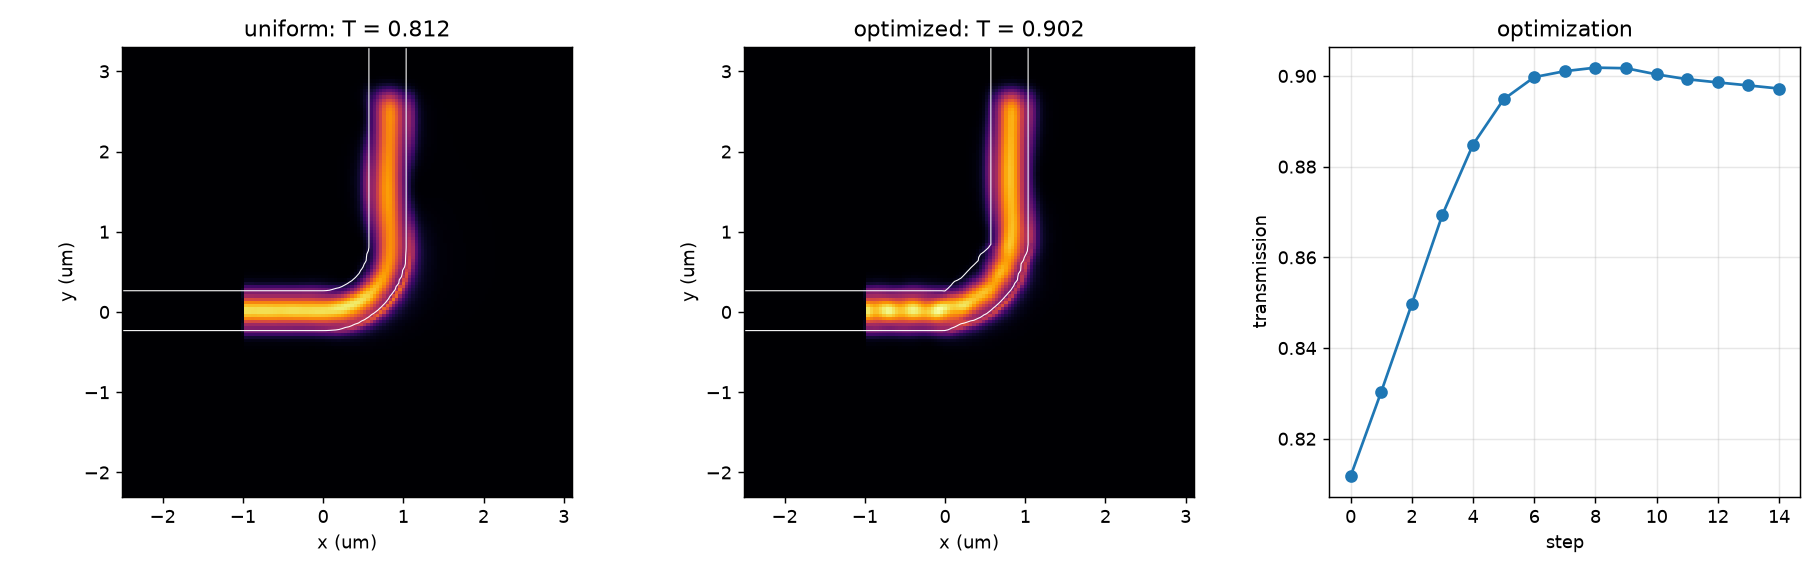
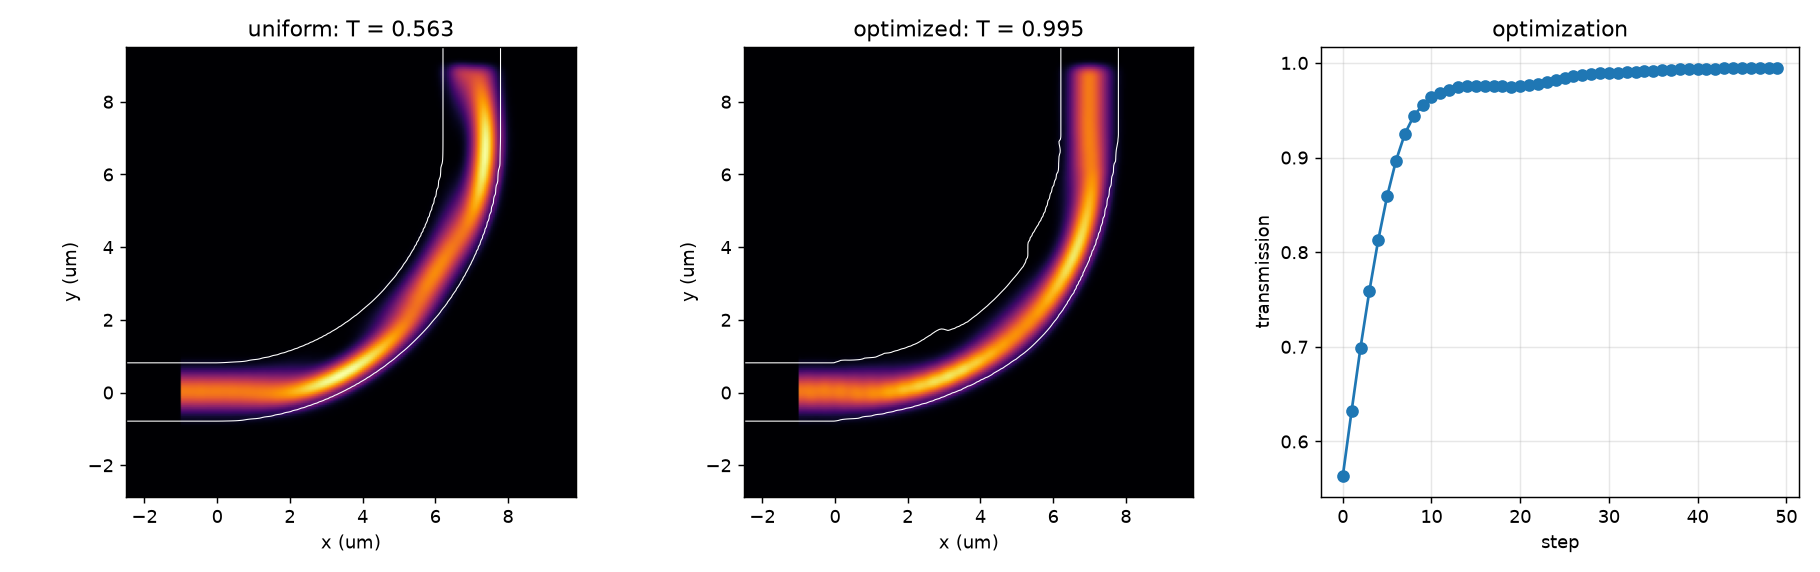
Inverse-design example: air-clad SiN bend on silica, 70 stations
The example now optimizes a 0.75 um thick, 1.6 um wide silicon nitride
guide on silica under air, bent 90 degrees at 7 um radius, at 1.55 um. The
uniform bend transmits 0.563 of TE0 as TE0 and 0.405 as TE1, so its loss
is mode conversion, which the width profile can undo. Both edges move at
70 stations (one vertex per station, half-widths 0.25 to 1.25 um); Adam at
learning rate 0.03 for 50 steps raises the transmission to 0.9950 (0.9934
on the 40 nm check grid; grids are 60 and 40 nm). The silica is a WAFER
level through the bottom of a 4.8 um tall box. Each step prints a one-line
summary of the profile. The guide, figure and changelog follow the run.

diff --git a/examples/guide/inverse_design.py b/examples/guide/inverse_design.py
@@ -1,11 +1,12 @@
 """Inverse design: the widths of a bend too tight for a uniform-width guide.
 
-A 90 degree silicon bend of 0.8 um radius transmits only 81 % of TE0 at the uniform 0.5 um width. The
-width on each side of its centerline, at six stations along the bend, is optimized for TE0 transmission at
-1.55 um by gradient ascent through the simulation; both ends stay 0.5 um wide and centered, so the ports
-and their straight leads never change. The optimized design is then checked on a finer grid.
+An air-clad silicon nitride guide on silica, 1.6 um wide and 0.75 um thick, bent 90 degrees at 7 um radius,
+transmits only 56 % of its TE0 mode as TE0 at the uniform width: most of the rest leaves as TE1. The width on
+each side of its centerline, at 70 stations along the bend, is optimized for TE0 transmission at 1.55 um by
+gradient ascent through the simulation; both ends stay 1.6 um wide and centered, so the ports and their
+straight leads never change. The optimized design is then checked on a finer grid.
 Run it on a GPU:  python examples/guide/inverse_design.py
-Options:  --iterations 15 --resolution 0.04 --check 0.025 --figure inverse_design.png
+Options:  --iterations 50 --resolution 0.06 --check 0.04 --figure inverse_design.png
 """
 
 import argparse
@@ -25,12 +26,12 @@ gf.gpdk.PDK.activate()
 
 # --8<-- [start:geometry]
 WAVELENGTH = 1.55  # um
-CORE_INDEX, CLAD_INDEX = 3.48, 1.444  # silicon in silica
-WIDTH, THICKNESS = 0.5, 0.22  # um: the guide at both ports
-RADIUS = 0.8  # um, of the bend's centerline: too tight for a 0.5 um strip
-N_STATIONS = 6  # evenly spaced along the bend between its two ends
-H_MIN, H_MAX = 0.1, 0.5  # um: bounds of every half-width (H_MAX < RADIUS keeps the inner edge off the center)
-ANGLES = jnp.linspace(0.0, jnp.pi / 2, 61)  # the bend's vertices on each edge: a fixed number, a fixed topology
+CORE_INDEX, BOX_INDEX, CLAD_INDEX = 1.996, 1.444, 1.0  # silicon nitride on silica, under air
+WIDTH, THICKNESS = 1.6, 0.75  # um: the guide at both ports
+RADIUS = 7.0  # um, of the bend's centerline
+N_STATIONS = 70  # evenly spaced along the bend between its two ends
+H_MIN, H_MAX = 0.25, 1.25  # um: bounds of every half-width (H_MAX < RADIUS keeps the inner edge off the center)
+ANGLES = jnp.linspace(0.0, jnp.pi / 2, N_STATIONS + 2)  # one vertex per station and end on each edge: a fixed topology
 
 
 def tight_bend(half_widths):
@@ -38,7 +39,7 @@ def tight_bend(half_widths):
 
     Row 0 is the side toward the bend's center, row 1 the side away from it. At both ends the guide is
     WIDTH wide and centered; in between, each edge is linear from station to station. Every profile has
-    the same 122 vertices, so the device built for one takes the vertices of any other (``StackDevice.pack``).
+    the same 144 vertices, so the device built for one takes the vertices of any other (``StackDevice.pack``).
     """
     t = ANGLES / ANGLES[-1]  # along the bend, 0 to 1
     stations = jnp.linspace(0.0, 1.0, N_STATIONS + 2)
@@ -54,29 +55,37 @@ def tight_bend(half_widths):
     return bend
 
 
-UNIFORM = jnp.full((2, N_STATIONS), WIDTH / 2)  # the 0.5 um guide, centered everywhere
+UNIFORM = jnp.full((2, N_STATIONS), WIDTH / 2)  # the 1.6 um guide, centered everywhere
 # --8<-- [end:geometry]
 
 
 # --8<-- [start:simulation]
 EXTENSION = 2.5  # um: both ports run straight out to the box faces
-MARGIN = 2.05  # um past the bend's two free sides; the box is 5.6 x 5.6 x 3.4 um, whole cells at 40 and 25 nm
-BOX_HEIGHT, PML = 3.4, 1.0  # um
-RESOLUTION, CHECK_RESOLUTION = 0.04, 0.025  # um: the grid it is optimized on, and the finer one it is checked on
-DURATION = 400e-15  # s
+MARGIN = 2.06  # um past the bend's two free sides; the box is 12.36 x 12.36 x 4.8 um, whole cells at 60 and 40 nm
+BOX_HEIGHT, PML = 4.8, 1.0  # um
+RESOLUTION, CHECK_RESOLUTION = 0.06, 0.04  # um: the grid it is optimized on, and the finer one it is checked on
+DURATION = 500e-15  # s
+PADDING = (0.5, 0.5)  # wavelengths past the port's width and the core's height: the mode reaches into the silica
 KEY = jax.random.PRNGKey(0)
 
 layer_stack = LayerStack(
-    layers={"core": LayerLevel(layer=gf.gpdk.LAYER.WG, zmin=0.0, thickness=THICKNESS, material="core", mesh_order=1)}
+    layers={
+        "box": LayerLevel(layer="WAFER", zmin=-3.0, thickness=3.0, material="silica", mesh_order=9),
+        "core": LayerLevel(layer=gf.gpdk.LAYER.WG, zmin=0.0, thickness=THICKNESS, material="core", mesh_order=1),
+    }
 )
-materials = {"core": fdtdx.Material(permittivity=CORE_INDEX**2), "clad": fdtdx.Material(permittivity=CLAD_INDEX**2)}
+materials = {
+    "core": fdtdx.Material(permittivity=CORE_INDEX**2),
+    "silica": fdtdx.Material(permittivity=BOX_INDEX**2),
+    "air": fdtdx.Material(permittivity=CLAD_INDEX**2),
+}
 
 
 def place(resolution):
     """The uniform bend, placed on a grid of this cell (um) with its source and monitors."""
-    z_margin = (BOX_HEIGHT - THICKNESS) / 2
+    z_margin = (BOX_HEIGHT - THICKNESS) / 2  # the silica runs through the bottom face, the air through the top
     stack = bf.StackDevice.from_layer_stack(
-        tight_bend(UNIFORM), layer_stack, materials, background="clad", zrange_layers=["core"],
+        tight_bend(UNIFORM), layer_stack, materials, background="air", zrange_layers=["core"],
         extend_ports=(("o1", EXTENSION), ("o2", EXTENSION)),
         boundary_offset=(MARGIN, 0, 0, -MARGIN, z_margin, -z_margin), name="stack",
     )
@@ -94,14 +103,14 @@ def place(resolution):
     for obj, placing in (
         # source and monitors in the straight leads, clear of the bend whose edges move
         stack.create_mode_plane_source_at(
-            "o1", (0.5, 0.3), wave_character=wave, temporal_profile=pulse, port_offset=-1.0, name="source", **te0,
+            "o1", PADDING, wave_character=wave, temporal_profile=pulse, port_offset=-1.0, name="source", **te0,
         ),
         stack.create_mode_overlap_detector_at(
-            "o1", (0.5, 0.3), direction="in", wave_characters=(wave,), scaling_mode="pulse", port_offset=-0.5,
+            "o1", PADDING, direction="in", wave_characters=(wave,), scaling_mode="pulse", port_offset=-0.5,
             name="in", **te0,
         ),
         stack.create_mode_overlap_detector_at(
-            "o2", (0.5, 0.3), wave_characters=(wave,), scaling_mode="pulse", port_offset=-0.5, name="out", **te0,
+            "o2", PADDING, wave_characters=(wave,), scaling_mode="pulse", port_offset=-0.5, name="out", **te0,
         ),
     ):
         objects.append(obj)
@@ -148,7 +157,14 @@ def parameters_of(half_widths):
 
 
 # --8<-- [start:optimize]
-def optimize(placed, iterations, learning_rate=0.2):
+def describe(half_widths):
+    """The range of a profile's width, and of its middle's shift toward the bend's center (um)."""
+    inner, outer = np.asarray(half_widths)
+    width, shift = inner + outer, (inner - outer) / 2
+    return f"width {width.min():.2f} to {width.max():.2f}, shift {shift.min():+.2f} to {shift.max():+.2f} um"
+
+
+def optimize(placed, iterations, learning_rate=0.03):
     """Adam on the transmission; returns the best half-widths seen and the transmission of every step."""
     value_and_grad = jax.value_and_grad(lambda z: simulate(half_widths_of(z), placed)[0])  # eager: no jax.jit
     optimizer = optax.adam(learning_rate)
@@ -159,8 +175,7 @@ def optimize(placed, iterations, learning_rate=0.2):
         transmission, gradient = value_and_grad(z)
         transmission = float(transmission)
         history.append(transmission)
-        inner, outer = np.round(np.asarray(half_widths_of(z)), 3)
-        print(f"step {step:2d}  T = {transmission:.4f}  inner {inner}  outer {outer}")
+        print(f"step {step:2d}  T = {transmission:.4f}  {describe(half_widths_of(z))}")
         if transmission > best[0]:
             best = (transmission, half_widths_of(z))
         updates, state = optimizer.update(-gradient, state)  # optax minimizes: ascend on T
@@ -206,7 +221,7 @@ def plot(images, history, path):
 
 if __name__ == "__main__":
     parser = argparse.ArgumentParser(description=__doc__.splitlines()[0])
-    parser.add_argument("--iterations", type=int, default=15, help="optimization steps")
+    parser.add_argument("--iterations", type=int, default=50, help="optimization steps")
     parser.add_argument("--resolution", type=float, default=RESOLUTION, help="grid cell (um) to optimize on")
     parser.add_argument("--check", type=float, default=CHECK_RESOLUTION, help="finer grid cell (um); 0 skips it")
     parser.add_argument("--figure", default="inverse_design.png", help="where to save the figure; '' skips it")
@@ -216,8 +231,7 @@ if __name__ == "__main__":
     # --8<-- [start:run]
     placed = place(args.resolution)
     half_widths, history = optimize(placed, args.iterations)
-    inner, outer = np.round(np.asarray(half_widths), 3)
-    print(f"optimized half-widths (um): inner {inner}, outer {outer}")
+    print(f"optimized: {describe(half_widths)}")
     images = {name: field_image(h, placed, args.resolution) for name, h in (("uniform", UNIFORM), ("optimized", half_widths))}
     t_uniform, t_optimized = images["uniform"][0], images["optimized"][0]
     print(f"transmission at {args.resolution * 1e3:.0f} nm: uniform {t_uniform:.4f}, optimized {t_optimized:.4f}")

diff --git a/docs/guide/inverse-design.md b/docs/guide/inverse-design.md
@@ -1,10 +1,11 @@
 # Inverse design
 
-A 90° silicon bend of 0.8 µm radius transmits only 81 % of TE0 at the uniform 0.5 µm width.
+An air-clad silicon nitride guide on silica, 1.6 µm wide and 0.75 µm thick, bent 90° at 7 µm radius, transmits only
+56 % of TE0 at 1.55 µm as TE0 at its uniform width: most of the rest leaves the bend as TE1.
 [`examples/guide/inverse_design.py`](https://github.com/Sephiram591/bifrost/blob/main/examples/guide/inverse_design.py)
-optimizes the width on each side of its centerline for transmission, by gradient ascent through the simulation, and
-raises it to 90 %: the bend's loss halves, from 0.91 dB to 0.45 dB, and a finer grid confirms it. Run it on a GPU; on
-an NVIDIA L40S it took 977 s.
+optimizes the width on each side of its centerline, at 70 stations, for TE0 transmission, by gradient ascent through
+the simulation, and raises it to 99.5 %: the bend's loss falls from 2.5 dB to 0.02 dB, and a finer grid confirms it.
+Run it on a GPU; on an NVIDIA L40S its 50 steps took 4501 s.
 
 ![The uniform and the optimized bend: |E|² on the middle of the core, and the transmission per step](../images/inverse_design.png)
 
@@ -14,19 +15,30 @@ an NVIDIA L40S it took 977 s.
 --8<-- "examples/guide/inverse_design.py:geometry"
 ```
 
-- **Both ends are fixed:** 0.5 µm wide and centered, so the ports, their straight leads and the monitors in them never
-  change. Only the six stations in between move, each edge linear from one to the next.
-- **The topology is fixed:** every profile has the same 122 vertices, so the device built once, for the uniform bend,
-  takes any profile's vertices with `stack.pack` (see [polygon topology](gradients.md#polygon-topology)).
+- **The guide:** 1.6 µm wide and 0.75 µm thick, it guides four modes: TE0 (effective index 1.81), TM0 (1.76), TE1
+  (1.63) and TM1 (1.61); TE2 (1.436) is below the silica's 1.444.
+- **Where the light goes:** the uniform bend transmits 0.563 of TE0 as TE0 and 0.405 as TE1 (on the 60 nm grid; 0.559
+  and 0.414 at 40 nm). Nearly all the light gets through, but 41 % of the input leaves as TE1: the straight guide's mode
+  does not match the bend's, which sits toward its outer edge, so the junctions excite both bend modes. Only 3 % is
+  lost otherwise.
+- **Both ends are fixed:** 1.6 µm wide and centered, so the ports, their straight leads and the monitors in them never
+  change. Only the 70 stations in between move, each edge linear from one to the next.
+- **The topology is fixed:** every profile has the same 144 vertices, one per station and end on each edge, so the
+  device built once, for the uniform bend, takes any profile's vertices with `stack.pack` (see
+  [polygon topology](gradients.md#polygon-topology)).
 - **Two widths per station,** toward the bend's center and away from it. A single width, symmetric about the
-  centerline, has nowhere to go here: 0.4 and 0.6 µm transmit 0.74 against the uniform 0.5 µm's 0.81, and optimizing a
-  symmetric profile gained only 0.007. Moving the guide toward the center is what helps, and only two independent
-  edges can express that.
+  centerline, helps here: narrowing the bend to 1.2 µm raises the transmission to 0.85 (widening it to 2.0 µm lowers
+  it to 0.25). Moving the guide toward the center, so the straight guide's mode lines up with the bend's, helps more:
+  0.1, 0.2 and 0.3 µm give 0.82, 0.96 and 0.92. Only two independent edges can express both.
 
 ## The simulation
 
 As in [Gradients](gradients.md), with the source 1 µm and both monitors 0.5 µm out in the straight leads, clear of the
-moving edges: a monitor on the port itself would see the bend's edges move and change the mode it measures.
+moving edges: a monitor on the port itself would see the bend's edges move and change the mode it measures. The silica
+is a level on the `WAFER` layer that runs through the bottom of the box, under an air background (see
+[Adding a substrate](layer-stacks.md#adding-a-substrate)). The mode reaches into the silica, so the box is 4.8 µm tall
+and the source and monitor planes reach 0.5 wavelengths (0.78 µm) above and below the core, where the mode's field has
+fallen to about 3 %, still clear of the absorbing layers.
 
 ```python
 --8<-- "examples/guide/inverse_design.py:simulation"
@@ -35,9 +47,9 @@ moving edges: a monitor on the port itself would see the bend's edges move and c
 ## Objective and optimizer
 
 The objective is the normalized TE0 transmission `|a_out / a_in|²`. Each half-width is a bounded function of an
-unbounded parameter, so the optimizer cannot leave 0.1 to 0.5 µm, and [optax](https://optax.readthedocs.io)'s Adam
-(installed with fdtdx) steps on those parameters. `jax.value_and_grad` runs eagerly: the cell function needs concrete
-values, so the objective is not wrapped in `jax.jit`.
+unbounded parameter, so the optimizer cannot leave 0.25 to 1.25 µm (a guide 0.5 to 2.5 µm wide), and
+[optax](https://optax.readthedocs.io)'s Adam (installed with fdtdx) steps on those parameters. `jax.value_and_grad`
+runs eagerly: the cell function needs concrete values, so the objective is not wrapped in `jax.jit`.
 
 ```python
 --8<-- "examples/guide/inverse_design.py:objective"
@@ -51,33 +63,41 @@ values, so the objective is not wrapped in `jax.jit`.
 --8<-- "examples/guide/inverse_design.py:run"
 ```
 
-Output (steps 1 to 6 and 10 to 13 left out):
+Output (steps 2 to 4, 6 to 9, 11 to 14, 16 to 19, 21 to 29 and 31 to 48 left out):
 
 ```text
-step  0  T = 0.8118  inner [0.25 0.25 0.25 0.25 0.25 0.25]  outer [0.25 0.25 0.25 0.25 0.25 0.25]
-step  7  T = 0.9011  inner [0.334 0.351 0.377 0.379 0.356 0.347]  outer [0.186 0.192 0.189 0.192 0.2   0.189]
-step  8  T = 0.9018  inner [0.346 0.36  0.389 0.392 0.366 0.36 ]  outer [0.18  0.19  0.182 0.185 0.196 0.182]
-step  9  T = 0.9017  inner [0.359 0.367 0.398 0.402 0.374 0.373]  outer [0.173 0.189 0.177 0.179 0.194 0.176]
-step 14  T = 0.8972  inner [0.41  0.384 0.425 0.43  0.392 0.418]  outer [0.152 0.189 0.17  0.174 0.196 0.154]
-optimized half-widths (um): inner [0.346 0.36  0.389 0.392 0.366 0.36 ], outer [0.18  0.19  0.182 0.185 0.196 0.182]
-transmission at 40 nm: uniform 0.8118, optimized 0.9018
-transmission at 25 nm: uniform 0.8121, optimized 0.9052
-wall time: 977 s on NVIDIA L40S
+step  0  T = 0.5634  width 1.60 to 1.60, shift +0.00 to +0.00 um
+step  1  T = 0.6326  width 1.59 to 1.60, shift -0.01 to +0.01 um
+step  5  T = 0.8591  width 1.53 to 1.60, shift -0.04 to +0.04 um
+step 10  T = 0.9636  width 1.47 to 1.61, shift -0.07 to +0.07 um
+step 15  T = 0.9760  width 1.44 to 1.65, shift -0.08 to +0.09 um
+step 20  T = 0.9756  width 1.45 to 1.68, shift -0.09 to +0.11 um
+step 30  T = 0.9894  width 1.54 to 1.74, shift -0.07 to +0.11 um
+step 49  T = 0.9950  width 1.52 to 1.75, shift -0.07 to +0.12 um
+optimized: width 1.52 to 1.75, shift -0.07 to +0.12 um
+transmission at 60 nm: uniform 0.5634, optimized 0.9950
+transmission at 40 nm: uniform 0.5586, optimized 0.9934
+wall time: 4501 s on NVIDIA L40S
 ```
 
-- **The design:** the inner edge moves 0.10 to 0.14 µm toward the center and the outer edge 0.05 to 0.07 µm in, so the
-  guide is 0.53 to 0.58 µm wide and its middle about 0.09 µm closer to the center than the uniform bend's. In the
-  figure, the uniform bend radiates from its outer edge after the turn; the optimized one keeps that light.
-- **The best step is kept:** the transmission peaks at step 8 and then falls slowly as Adam overshoots, so `optimize`
-  returns the best widths it has seen, not the last.
-- **The gain is the device's, not the grid's:** on the 25 nm grid the uniform bend transmits 0.8121 and the optimized
-  one 0.9052. The derivatives are those of the discretized simulation (see
+- **The design:** the guide stays 1.52 to 1.75 µm wide, and its middle moves by up to 0.12 µm toward the center and
+  0.07 µm away from it along the bend. In the figure, the uniform bend's field beats across the guide as TE0 and TE1
+  interfere; the optimized bend carries one mode along its outer edge. With no penalty on curvature, the inner edge,
+  where little light goes, keeps ripples a few stations long; a design for fabrication would smooth or penalize them.
+- **The best step is kept:** here it is the last, but the transmission dips slightly at steps 17 to 19. With a learning
+  rate of 0.1 instead of 0.03 it reaches 0.954 at step 3, falls to 0.928 by step 7 and recovers, so `optimize` returns
+  the best widths it has seen, not the last. That run ends at a similar transmission (0.9962; 0.9940 at 40 nm), with
+  the guide up to 1.96 µm wide and a rougher inner edge.
+- **The gain is the device's, not the grid's:** on the 40 nm grid the uniform bend transmits 0.5586 and the optimized
+  one 0.9934. The derivatives are those of the discretized simulation (see
   [what the derivatives are](gradients.md#what-the-derivatives-are)), so an optimum is worth checking on a finer grid.
-- **The time:** 15 steps, each a forward and a backward solve, then four forward solves for the figure and the check.
+- **The time:** 50 steps, each a forward and a backward solve, then four forward solves for the figure and the check.
 
 ## For your own designs
 
 - Choose parameters that can express the improvement: here, two edges rather than one symmetric width.
+- Scale the step to the parameters: with 140 of them, Adam's early steps move every edge by about the same amount, so
+  a smaller learning rate gives a steadier rise and a smoother profile.
 - Bound them through a smooth map (here a sigmoid) instead of clipping, which would stop their gradients at the bounds.
 - Keep the ports and the leads that hold the monitors fixed, and keep the number of vertices fixed; for a change of
   topology, rebuild the device with `retopologize` (see [polygon topology](gradients.md#polygon-topology)).

diff --git a/docs/changelog.md b/docs/changelog.md
@@ -3,7 +3,8 @@
 ## Unreleased
 
 - [Inverse design](guide/inverse-design.md) guide and example (`examples/guide/inverse_design.py`): the width on each
-  side of a bend too tight for a uniform guide, optimized for transmission through the simulation (81 % to 90 %).
+  side of an air-clad silicon nitride bend, at 70 stations, optimized for TE0 transmission through the simulation
+  (56 % to 99.5 %; the uniform bend converts most of the rest to TE1).
 - Installation docs are backend-neutral: bifrost runs on any JAX backend; set JAX up with the
   [JAX installation guide](https://docs.jax.dev/en/latest/installation.html).
 - The viewer design spec moved out of the documentation site to `design/viewer-spec.md` in the repository.
